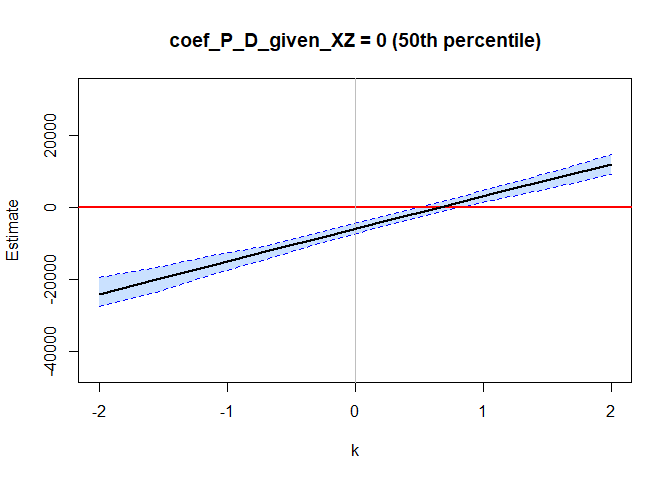
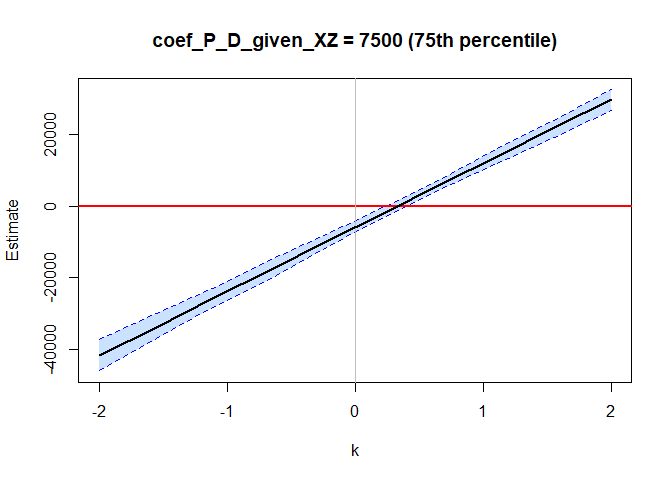
update readme

diff --git a/README.md b/README.md
@@ -1,5 +1,5 @@
 
-# ripp: R ImPerfect Placebos
+# PlaceboLM: Causal Progress with Imperfect Placebos
 
 <!-- badges: start -->
 <!-- badges: end -->
@@ -9,7 +9,7 @@ See Rohde and Hazlett (20XX) for details.
 
 ## Installation
 
-You can install the development version of ripp from
+You can install the development version of ‘ripp’ from
 [GitHub](https://github.com/) with:
 
 ``` r
@@ -47,37 +47,21 @@ plm = placeboLM(
 
 placeboLM_table(plm,
                 n_boot = 100,
-                ptiles = c(0,0.25,0.5,0.75,1),
+                ptiles = c(0.25,0.5,0.75),
                 alpha = 0.05)
 ```
 
-|   k | coef_P\_D_given_XZ |   Estimate | Std. Error |       CI Low |    CI High |
-|----:|-------------------:|-----------:|-----------:|-------------:|-----------:|
-|  -2 |             -15000 |  11467.475 |  2320.4639 |   7501.11456 |  16507.791 |
-|  -2 |              -7500 |  -6273.733 |  2142.7896 | -10171.93610 |  -1839.928 |
-|  -2 |                  0 | -24014.941 |  2322.2466 | -28812.03236 | -20198.071 |
-|  -2 |               7500 | -41756.149 |  2493.9795 | -46401.50105 | -37269.516 |
-|  -2 |              15000 | -59497.357 |  3021.3540 | -66202.19347 | -54392.193 |
-|  -1 |             -15000 |   2769.682 |  1392.8437 |    -43.82447 |   4985.127 |
-|  -1 |              -7500 |  -6100.922 |  1422.3463 |  -8325.59323 |  -3036.642 |
-|  -1 |                  0 | -14971.526 |  1427.0790 | -17466.36796 | -11828.695 |
-|  -1 |               7500 | -23842.130 |  1443.2492 | -26293.85539 | -20888.857 |
-|  -1 |              15000 | -32712.733 |  1505.5745 | -35832.78877 | -30116.609 |
-|   0 |             -15000 |  -5928.110 |   761.1868 |  -7278.61083 |  -4505.296 |
-|   0 |              -7500 |  -5928.110 |   853.6823 |  -7460.28979 |  -3925.339 |
-|   0 |                  0 |  -5928.110 |   868.9845 |  -7551.82678 |  -3903.202 |
-|   0 |               7500 |  -5928.110 |   801.3693 |  -7450.31890 |  -4439.387 |
-|   0 |              15000 |  -5928.110 |   800.5082 |  -7591.27764 |  -4489.932 |
-|   1 |             -15000 | -14625.902 |   913.2210 | -16180.35262 | -12289.941 |
-|   1 |              -7500 |  -5755.298 |   807.9699 |  -7353.28341 |  -4543.661 |
-|   1 |                  0 |   3115.306 |   789.2941 |   1638.22634 |   4464.266 |
-|   1 |               7500 |  11985.909 |   966.3556 |  10406.57118 |  13930.486 |
-|   1 |              15000 |  20856.513 |  1142.6227 |  18490.48910 |  22730.722 |
-|   2 |             -15000 | -23323.695 |  1394.2861 | -25642.48204 | -20735.613 |
-|   2 |              -7500 |  -5582.487 |  1475.3895 |  -8577.01526 |  -2874.553 |
-|   2 |                  0 |  12158.721 |  1477.1338 |   9433.07893 |  14767.219 |
-|   2 |               7500 |  29899.929 |  1838.8336 |  27101.84187 |  33581.983 |
-|   2 |              15000 |  47641.137 |  1852.4934 |  44177.71265 |  50845.057 |
+|   k | coef_P\_D_given_XZ |   Estimate | Std. Error |     CI Low |    CI High |
+|----:|-------------------:|-----------:|-----------:|-----------:|-----------:|
+|  -1 |              -7500 |  -6100.922 |  1177.4214 |  -8239.923 |  -3951.543 |
+|  -1 |                  0 | -14971.526 |  1353.4532 | -17675.895 | -12731.882 |
+|  -1 |               7500 | -23842.130 |  1496.6576 | -26538.782 | -21412.673 |
+|   0 |              -7500 |  -5928.110 |   762.0732 |  -7344.621 |  -4409.371 |
+|   0 |                  0 |  -5928.110 |   806.4220 |  -7430.376 |  -4433.818 |
+|   0 |               7500 |  -5928.110 |   937.5700 |  -8004.585 |  -4210.544 |
+|   1 |              -7500 |  -5755.298 |   868.4238 |  -7418.883 |  -4066.237 |
+|   1 |                  0 |   3115.306 |   879.1249 |   1491.171 |   4758.044 |
+|   1 |               7500 |  11985.909 |   968.4343 |   9730.748 |  13441.627 |
 
 ``` r
 placeboLM_contour_plot(plm,
@@ -90,11 +74,11 @@ placeboLM_contour_plot(plm,
 placeboLM_line_plot(plm,
                     bootstrap=TRUE,
                     n_boot=100,
-                    ptiles = c(0.25,0.5,0.75),
+                    ptiles = c(0.5,0.75),
                     focus_param = "k",
                     ptile_param = "coef_P_D_given_XZ",
                     gran= 10,
                     alpha = 0.05)
 ```
 
-<img src="man/figures/README-unnamed-chunk-2-2.png" width="100%" /><img src="man/figures/README-unnamed-chunk-2-3.png" width="100%" /><img src="man/figures/README-unnamed-chunk-2-4.png" width="100%" />
+<img src="man/figures/README-unnamed-chunk-2-2.png" width="100%" /><img src="man/figures/README-unnamed-chunk-2-3.png" width="100%" />
